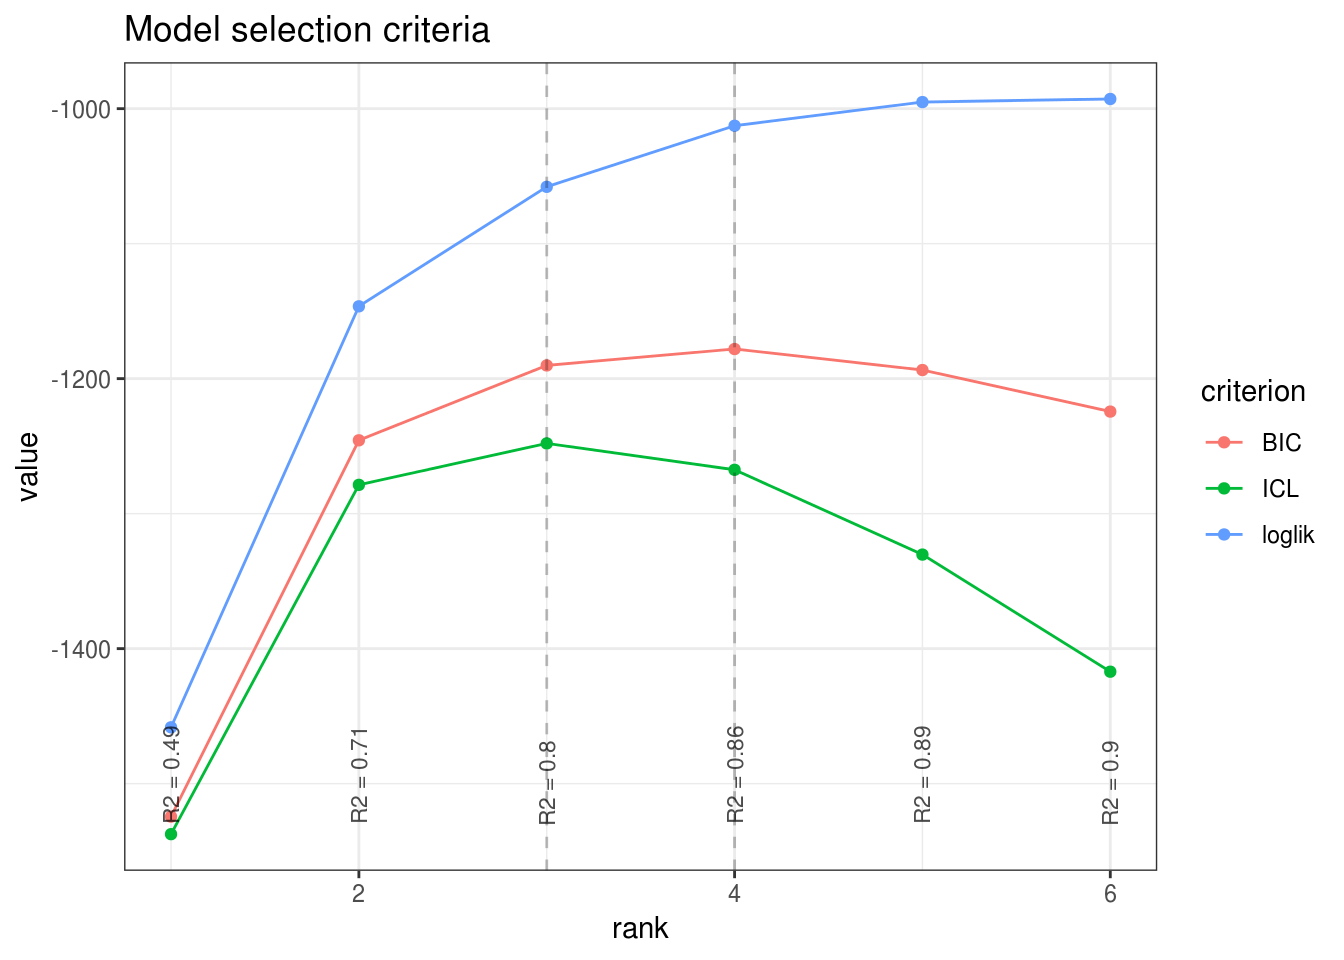
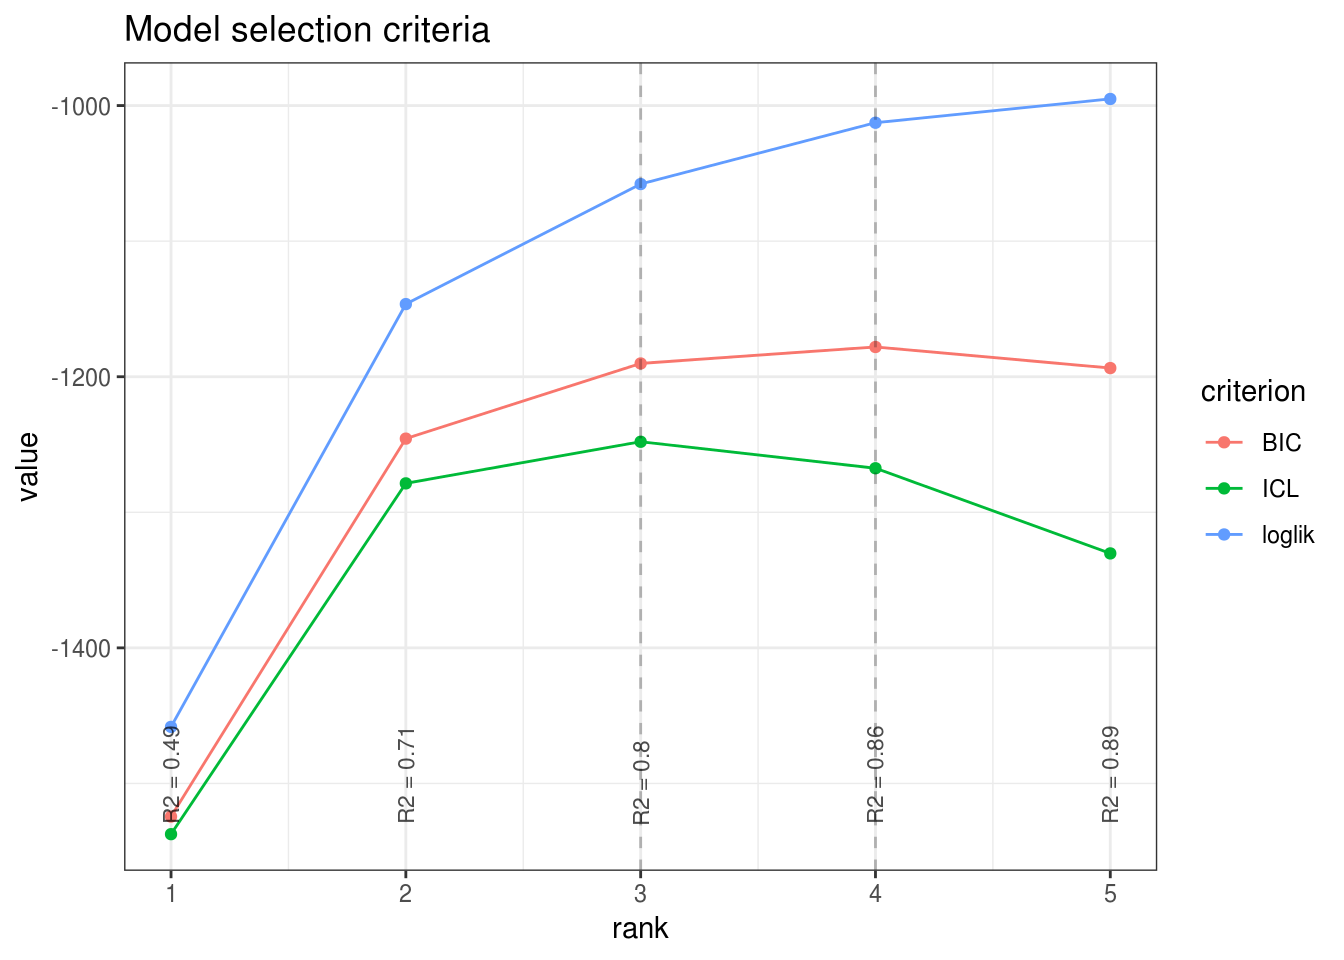
Deploy jchiquet/PLNmodels to github.com/jchiquet/PLNmodels.git:gh-pages

diff --git a/articles/PLNPCA.html b/articles/PLNPCA.html
@@ -176,18 +176,17 @@
 <div class="sourceCode" id="cb3"><pre class="sourceCode r"><code class="sourceCode r"><a class="sourceLine" id="cb3-1" data-line-number="1">PCA_models &lt;-<span class="st"> </span><span class="kw"><a href="../reference/PLNPCA.html">PLNPCA</a></span>(</a>
 <a class="sourceLine" id="cb3-2" data-line-number="2">  Abundance <span class="op">~</span><span class="st"> </span><span class="dv">1</span> <span class="op">+</span><span class="st"> </span><span class="kw"><a href="https://www.rdocumentation.org/packages/stats/topics/offset">offset</a></span>(<span class="kw"><a href="https://www.rdocumentation.org/packages/base/topics/Log">log</a></span>(Offset)),</a>
 <a class="sourceLine" id="cb3-3" data-line-number="3">  <span class="dt">data  =</span> trichoptera, </a>
-<a class="sourceLine" id="cb3-4" data-line-number="4">  <span class="dt">ranks =</span> <span class="dv">1</span><span class="op">:</span><span class="dv">6</span></a>
+<a class="sourceLine" id="cb3-4" data-line-number="4">  <span class="dt">ranks =</span> <span class="dv">1</span><span class="op">:</span><span class="dv">5</span></a>
 <a class="sourceLine" id="cb3-5" data-line-number="5">)</a></code></pre></div>
 <pre><code>## 
 ##  Initialization...
 ## 
-##  Adjusting 6 PLN models for PCA analysis.
+##  Adjusting 5 PLN models for PCA analysis.
 ##   Rank approximation = 1 
      Rank approximation = 2 
      Rank approximation = 3 
      Rank approximation = 4 
      Rank approximation = 5 
-     Rank approximation = 6 
 ##  Post-treatments
 ##  DONE!</code></pre>
 <p>Note the use of the <code>formula</code> object to specify the model, similar to the one used in the function <code>PLN</code>.</p>
@@ -199,11 +198,11 @@
 <p>The <code>PCA_models</code> variable is an <code>R6</code> object with class <code>PLNPCAfamily</code>, which comes with a couple of methods. The most basic is the <code>show/print</code> method, which sends a brief summary of the estimation process:</p>
 <div class="sourceCode" id="cb5"><pre class="sourceCode r"><code class="sourceCode r"><a class="sourceLine" id="cb5-1" data-line-number="1">PCA_models</a></code></pre></div>
 <pre><code>## --------------------------------------------------------
-## COLLECTION OF 6 POISSON LOGNORMAL MODELS
+## COLLECTION OF 5 POISSON LOGNORMAL MODELS
 ## --------------------------------------------------------
 ##  Task: Principal Component Analysis
 ## ========================================================
-##  - Ranks considered: from 1 to 6
+##  - Ranks considered: from 1 to 5
 ##  - Best model (greater BIC): rank = 4 - R2 = 0.86
 ##  - Best model (greater ICL): rank = 3 - R2 = 0.8</code></pre>
 <p>One can also easily access the successive values of the criteria in the collection</p>
@@ -258,14 +257,6 @@
 <td align="right">-1330.300</td>
 <td align="right">0.8926364</td>
 </tr>
-<tr class="even">
-<td align="right">6</td>
-<td align="right">119</td>
-<td align="right">-992.8091</td>
-<td align="right">-1224.372</td>
-<td align="right">-1417.052</td>
-<td align="right">0.9043600</td>
-</tr>
 </tbody>
 </table>
 <p>A quick diagnostic of the optimization process is available via the <code>convergence</code> field:</p>
@@ -311,13 +302,6 @@
 <td align="right">5</td>
 <td align="left">102</td>
 <td align="left">3905</td>
-<td align="left">3</td>
-<td align="left">ftol_rel or ftol_abs was reached</td>
-</tr>
-<tr class="even">
-<td align="right">6</td>
-<td align="left">119</td>
-<td align="left">2981</td>
 <td align="left">3</td>
 <td align="left">ftol_rel or ftol_abs was reached</td>
 </tr>
@@ -495,18 +479,16 @@
 <a class="sourceLine" id="cb19-2" data-line-number="2"><span class="st">  </span><span class="kw"><a href="../reference/PLNPCA.html">PLNPCA</a></span>(</a>
 <a class="sourceLine" id="cb19-3" data-line-number="3">    Abundance <span class="op">~</span><span class="st"> </span><span class="dv">1</span> <span class="op">+</span><span class="st"> </span><span class="kw"><a href="https://www.rdocumentation.org/packages/stats/topics/offset">offset</a></span>(<span class="kw"><a href="https://www.rdocumentation.org/packages/base/topics/Log">log</a></span>(Offset)) <span class="op">+</span><span class="st"> </span>Temperature <span class="op">+</span><span class="st"> </span>Wind <span class="op">+</span><span class="st"> </span>Cloudiness,</a>
 <a class="sourceLine" id="cb19-4" data-line-number="4">    <span class="dt">data  =</span> trichoptera,</a>
-<a class="sourceLine" id="cb19-5" data-line-number="5">    <span class="dt">ranks =</span> <span class="dv">1</span><span class="op">:</span><span class="dv">6</span></a>
+<a class="sourceLine" id="cb19-5" data-line-number="5">    <span class="dt">ranks =</span> <span class="dv">1</span><span class="op">:</span><span class="dv">4</span></a>
 <a class="sourceLine" id="cb19-6" data-line-number="6">  )</a></code></pre></div>
 <pre><code>## 
 ##  Initialization...
 ## 
-##  Adjusting 6 PLN models for PCA analysis.
+##  Adjusting 4 PLN models for PCA analysis.
 ##   Rank approximation = 1 
      Rank approximation = 2 
      Rank approximation = 3 
      Rank approximation = 4 
-     Rank approximation = 5 
-     Rank approximation = 6 
 ##  Post-treatments
 ##  DONE!</code></pre>
 <p>Again, the best model is obtained for <span class="math inline">\(q=3\)</span> classes.</p>

diff --git a/reference/predict.PLNLDAfit.html b/reference/predict.PLNLDAfit.html
@@ -203,21 +203,10 @@
 #&gt;   3 1.000 0.000 0 0 0 0 0.000 0.000 0.000 0.000  0  0
 #&gt;   4 1.000 0.000 0 0 0 0 0.000 0.000 0.000 0.000  0  0
 #&gt;   5 0.998 0.002 0 0 0 0 0.000 0.000 0.000 0.000  0  0
-#&gt;   6 0.972 0.014 0 0 0 0 0.005 0.001 0.002 0.006  0  0</div><div class='input'><span class='no'>predicted_group</span> <span class='kw'>&lt;-</span> <span class='fu'><a href='https://www.rdocumentation.org/packages/stats/topics/predict'>predict</a></span>(<span class='no'>myLDA</span>, <span class='kw'>newdata</span> <span class='kw'>=</span> <span class='no'>trichoptera</span>, <span class='kw'>type</span> <span class='kw'>=</span> <span class='st'>"response"</span>)
-<span class='fu'><a href='https://www.rdocumentation.org/packages/base/topics/table'>table</a></span>(<span class='no'>predicted_group</span>, <span class='no'>trichoptera</span>$<span class='no'>Group</span>, <span class='kw'>dnn</span> <span class='kw'>=</span> <span class='fu'><a href='https://www.rdocumentation.org/packages/base/topics/c'>c</a></span>(<span class='st'>"predicted"</span>, <span class='st'>"true"</span>))</div><div class='output co'>#&gt;          true
-#&gt; predicted  1  2  3  4  5  6  7  8  9 10 11 12
-#&gt;        1  10  0  0  1  0  0  0  0  1  0  0  0
-#&gt;        2   1  4  0  0  0  0  0  0  0  0  0  0
-#&gt;        3   0  1  4  0  0  0  0  0  0  0  0  0
-#&gt;        4   0  0  0  3  1  0  0  0  0  0  0  0
-#&gt;        5   0  0  0  0  2  0  0  0  0  0  0  0
-#&gt;        6   0  0  0  0  0  1  0  0  0  0  0  0
-#&gt;        7   0  0  0  0  0  0  3  0  0  0  0  0
-#&gt;        8   0  0  0  0  0  0  0  4  1  0  0  0
-#&gt;        9   1  0  1  0  0  0  0  0  3  0  0  0
-#&gt;        10  0  0  0  0  0  0  0  0  0  4  0  0
-#&gt;        11  0  0  0  0  0  0  0  0  0  0  1  0
-#&gt;        12  0  0  0  0  1  0  0  0  0  0  0  1</div></pre>
+#&gt;   6 0.972 0.014 0 0 0 0 0.005 0.001 0.002 0.006  0  0</div><span class='co'># NOT RUN {</span>
+<span class='no'>predicted_group</span> <span class='kw'>&lt;-</span> <span class='fu'><a href='https://www.rdocumentation.org/packages/stats/topics/predict'>predict</a></span>(<span class='no'>myLDA</span>, <span class='kw'>newdata</span> <span class='kw'>=</span> <span class='no'>trichoptera</span>, <span class='kw'>type</span> <span class='kw'>=</span> <span class='st'>"response"</span>)
+<span class='fu'><a href='https://www.rdocumentation.org/packages/base/topics/table'>table</a></span>(<span class='no'>predicted_group</span>, <span class='no'>trichoptera</span>$<span class='no'>Group</span>, <span class='kw'>dnn</span> <span class='kw'>=</span> <span class='fu'><a href='https://www.rdocumentation.org/packages/base/topics/c'>c</a></span>(<span class='st'>"predicted"</span>, <span class='st'>"true"</span>))
+<span class='co'># }</span></pre>
   </div>
   <div class="col-md-3 hidden-xs hidden-sm" id="sidebar">
     <h2>Contents</h2>

diff --git a/index.html b/index.html
@@ -125,7 +125,7 @@
 <div id="cran-dependencies" class="section level4">
 <h4 class="hasAnchor">
 <a href="#cran-dependencies" class="anchor"></a>CRAN dependencies</h4>
-<p><strong>PLNmodels</strong> needs the following CRAN R packages, so check that their are installed on your computer.</p>
+<p><strong>PLNmodels</strong> needs the following CRAN R packages, so check that they are are installed on your computer.</p>
 <div class="sourceCode" id="cb1"><pre class="sourceCode r"><code class="sourceCode r"><a class="sourceLine" id="cb1-1" data-line-number="1">required_CRAN &lt;-<span class="st"> </span><span class="kw"><a href="https://www.rdocumentation.org/packages/base/topics/c">c</a></span>(<span class="st">"R6"</span>, <span class="st">"glassoFast"</span>, <span class="st">"Matrix"</span>, <span class="st">"Rcpp"</span>, <span class="st">"RcppArmadillo"</span>,</a>
 <a class="sourceLine" id="cb1-2" data-line-number="2">                   <span class="st">"nloptr"</span>, <span class="st">"igraph"</span>, <span class="st">"grid"</span>, <span class="st">"gridExtra"</span>, <span class="st">"dplyr"</span>,</a>
 <a class="sourceLine" id="cb1-3" data-line-number="3">                   <span class="st">"tidyr"</span>, <span class="st">"ggplot2"</span>, <span class="st">"corrplot"</span>, <span class="st">"magrittr"</span>, <span class="st">"devtools"</span>)</a>

diff --git a/articles/PLNnetwork.html b/articles/PLNnetwork.html
@@ -459,11 +459,11 @@
 <p>Here, an igraph object can be recovered.</p>
 <div class="sourceCode" id="cb20"><pre class="sourceCode r"><code class="sourceCode r"><a class="sourceLine" id="cb20-1" data-line-number="1">my_graph &lt;-<span class="st"> </span><span class="kw"><a href="https://www.rdocumentation.org/packages/graphics/topics/plot">plot</a></span>(model_StARS, <span class="dt">plot =</span> <span class="ot">FALSE</span>)</a>
 <a class="sourceLine" id="cb20-2" data-line-number="2">my_graph</a></code></pre></div>
-<pre><code>## IGRAPH 0b3f5c7 UNW- 17 7 -- 
+<pre><code>## IGRAPH 79c00ce UNW- 17 7 -- 
 ## + attr: name (v/c), label (v/c), label.cex (v/n), size (v/n),
 ## | label.color (v/c), frame.color (v/l), weight (e/n), color (e/c),
 ## | width (e/n)
-## + edges from 0b3f5c7 (vertex names):
+## + edges from 79c00ce (vertex names):
 ## [1] Hym--Hsp Aga--Hfo Aga--Hsp Set--All Set--Hsp Han--Sta Hfo--Hsp</code></pre>
 <div class="sourceCode" id="cb22"><pre class="sourceCode r"><code class="sourceCode r"><a class="sourceLine" id="cb22-1" data-line-number="1"><span class="kw"><a href="https://www.rdocumentation.org/packages/graphics/topics/plot">plot</a></span>(model_BIC)</a></code></pre></div>
 <p><img src="PLNnetwork_files/figure-html/partial_corr_network-1.png" width="672"></p>

diff --git a/articles/PLNLDA.html b/articles/PLNLDA.html
@@ -1025,6 +1025,12 @@ p_k             &amp; = \frac{n_k}{\sum_{k' = 1}^K n_{k'}}
 ##        10  0  0  0  0  0  0  0  0  0  4  0  0
 ##        11  0  0  0  0  0  0  0  0  0  0  1  0
 ##        12  0  0  0  0  1  0  0  0  0  0  0  1</code></pre>
+</div>
+</div>
+</div>
+<div id="references" class="section level2 unnumbered">
+<h2 class="hasAnchor">
+<a href="#references" class="anchor"></a>References</h2>
 <div id="refs" class="references">
 <div id="ref-AiH89">
 <p>Aitchison, J., and C.H. Ho. 1989. “The Multivariate Poisson-Log Normal Distribution.” <em>Biometrika</em> 76 (4). Oxford University Press: 643–53.</p>
@@ -1043,8 +1049,6 @@ p_k             &amp; = \frac{n_k}{\sum_{k' = 1}^K n_{k'}}
 </div>
 </div>
 </div>
-</div>
-</div>
   </div>
 
   <div class="col-md-3 hidden-xs hidden-sm" id="sidebar">
@@ -1054,6 +1058,7 @@ p_k             &amp; = \frac{n_k}{\sum_{k' = 1}^K n_{k'}}
       <ul class="nav nav-pills nav-stacked">
 <li><a href="#preliminaries">Preliminaries</a></li>
       <li><a href="#analysis-of-trichoptera-data-with-a-pln-lda-model">Analysis of trichoptera data with a PLN-LDA model</a></li>
+      <li><a href="#references">References</a></li>
       </ul>
 </div>
       </div>
